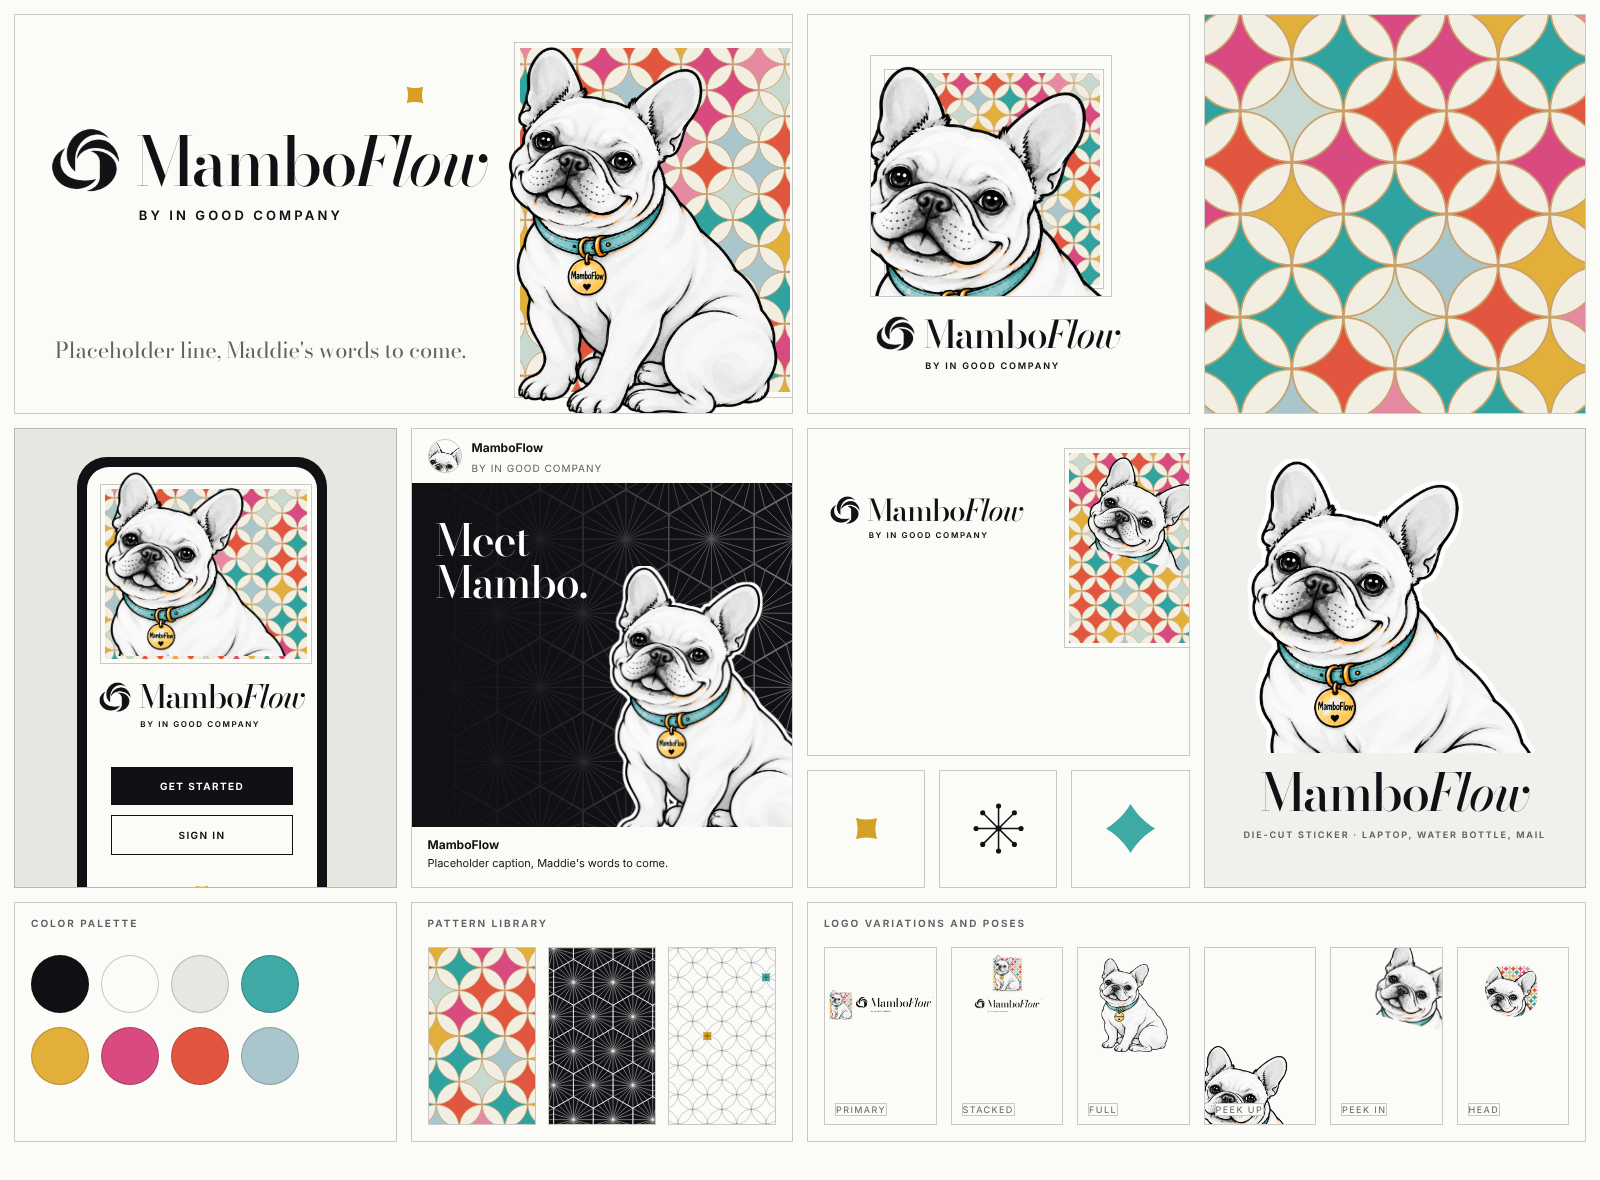
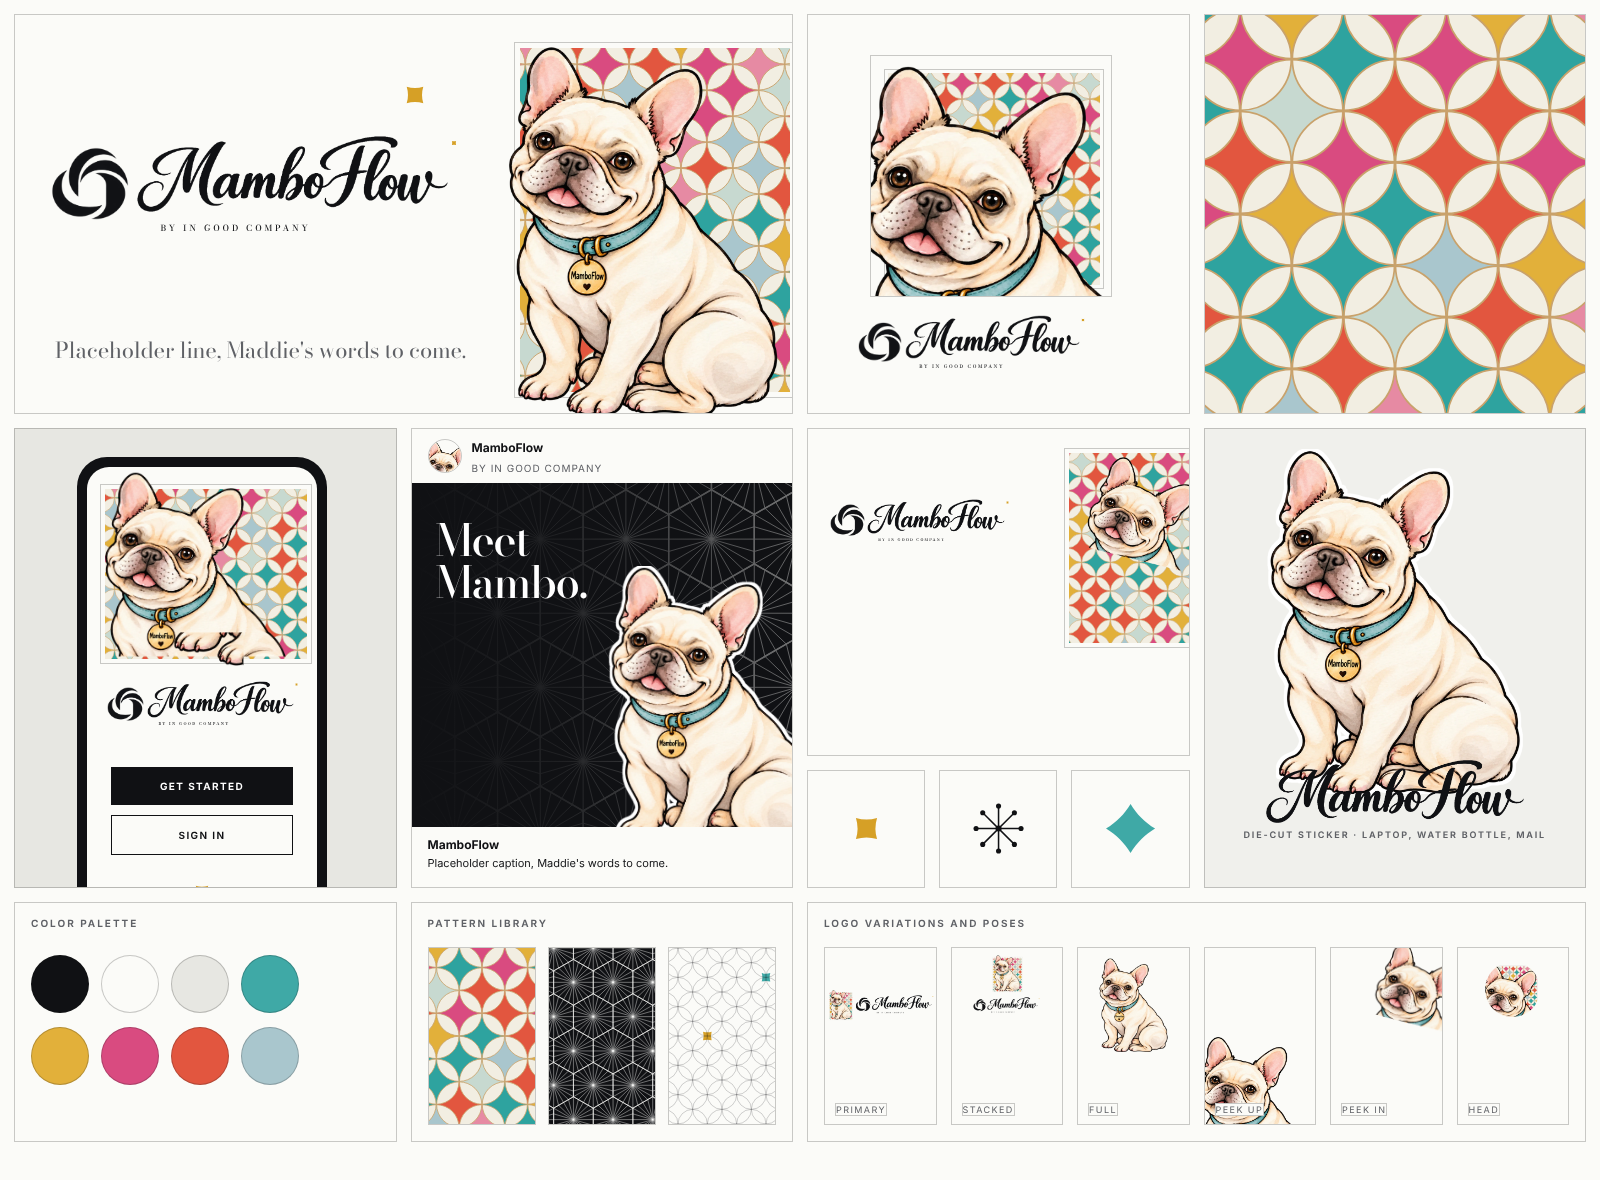
Refresh the brand sheet with the script lockup and cream Mambo
Claude-Session: https://claude.ai/code/session_01PSNkhtJjPwNzdydLD5UDQg

diff --git a/branding/mamboflow/source/sheet.html b/branding/mamboflow/source/sheet.html
@@ -17,17 +17,17 @@ img.m{position:absolute;display:block}
 .endorse{position:absolute;display:flex;align-items:center;gap:12px}
 .endorse img{display:block;height:44px;width:auto}
 .endorse .by{position:static!important}
-/* the lockup component: mark = 1.25 x cap height, centred on the caps; endorsement under the wordmark */
-.lk{--F:44px;display:flex;align-items:flex-start;gap:calc(var(--F)*.24)}
-.lk>img{display:block;height:calc(var(--F)*.94);width:auto;margin-top:calc(var(--F)*.02)}
-.lk .wm{font-size:var(--F);line-height:1;white-space:nowrap}
-.lk .by{margin:calc(var(--F)*.18) 0 0 calc(var(--F)*.04)}
+/* the lockup component: mark + script wordmark artwork + endorsement, from --W */
+.lk{--W:400px;position:relative;width:calc(var(--W)*1.32);height:calc(var(--W)*.31)}
+.lk .mk{position:absolute;left:0;top:calc(var(--W)*.038);height:calc(var(--W)*.233);width:auto}
+.lk .wmi{position:absolute;left:calc(var(--W)*.27);top:0;width:var(--W)}
+.lk .by{position:absolute!important;left:calc(var(--W)*.35);top:calc(var(--W)*.275);margin:0;font-family:"Bodoni Moda";font-weight:500;font-size:calc(var(--W)*.027);letter-spacing:.34em;text-transform:uppercase;white-space:nowrap;color:inherit}
+.lk .sp{position:absolute;left:calc(var(--W)*1.27);top:calc(var(--W)*.01);width:calc(var(--W)*.033)}
 
 .spark{position:absolute;width:40px;height:40px}
 /* hero */
 #hero{grid-column:1/3}
-#hero .lk{position:absolute;left:36px;top:112px}
-#hero .by{font-size:13px}
+#hero .lk{position:absolute;left:36px;top:120px}
 #hero .tag{position:absolute;left:40px;top:318px;width:420px;font-family:"Bodoni Moda";font-size:22px;letter-spacing:-.01em;color:var(--muted)}
 #hero .panel{left:500px;top:28px;width:270px;height:344px}
 #hero img.m{left:488px;top:30px;width:280px}
@@ -36,8 +36,7 @@ img.m{position:absolute;display:block}
 #icon .box{position:absolute;left:62px;top:40px;width:240px;height:240px;border:1px solid var(--line);overflow:hidden;background:var(--paper)}
 #icon .box .panel{left:14px;top:14px;width:212px;height:212px;border-width:3px}
 #icon .box img.m{width:330px;left:-20px;top:8px}
-#icon .lk{position:absolute;left:0;right:0;top:300px;justify-content:center}
-#icon .by{font-size:9px;letter-spacing:.2em}
+#icon .lk{position:absolute;left:50px;top:300px}
 /* pattern cell */
 #pat img{position:absolute;inset:0;width:100%;height:100%;object-fit:cover}
 /* phone */
@@ -46,8 +45,7 @@ img.m{position:absolute;display:block}
 #phone .scr{position:relative;width:100%;height:100%;border-radius:22px;background:var(--paper);overflow:hidden}
 #phone .scr .panel{left:14px;top:18px;width:202px;height:170px;border-width:4px}
 #phone .scr img.m{left:14px;top:4px;width:200px}
-#phone .scr .lk{position:absolute;left:0;right:0;top:214px;justify-content:center}
-#phone .scr .by{font-size:8px;letter-spacing:.2em}
+#phone .scr .lk{position:absolute;left:20px;top:214px}
 #phone .btn{position:absolute;left:24px;right:24px;height:38px;display:flex;align-items:center;justify-content:center;font-size:10px;letter-spacing:.14em;text-transform:uppercase;font-weight:650}
 #phone .b1{top:300px;background:var(--ink);color:#fff}
 #phone .b2{top:348px;border:1px solid var(--ink)}
@@ -68,8 +66,7 @@ img.m{position:absolute;display:block}
 /* card + glyphs column */
 #card{display:grid;grid-template-rows:1fr auto;gap:14px;background:transparent;border:0}
 #card .bc{position:relative;background:var(--paper);border:1px solid var(--line);overflow:hidden}
-#card .bc .lk{position:absolute;left:22px;top:66px}
-#card .bc .by{font-size:8px;letter-spacing:.2em}
+#card .bc .lk{position:absolute;left:22px;top:70px}
 #card .bc .panel{right:-24px;top:20px;width:140px;height:190px;border-width:4px}
 #card .bc img.m{right:-20px;top:22px;width:128px}
 #card .gl{display:flex;gap:14px}
@@ -78,7 +75,7 @@ img.m{position:absolute;display:block}
 /* sticker */
 #stick{background:var(--soft)}
 #stick img.m{left:40px;top:30px;width:300px}
-#stick .wm{position:absolute;left:0;right:0;top:340px;text-align:center;font-size:52px;color:var(--ink)}
+
 #stick .tag{position:absolute;left:0;right:0;top:400px;text-align:center;font-size:9px;letter-spacing:.2em;text-transform:uppercase;font-weight:650;color:var(--muted)}
 /* bottom row */
 .lab{position:absolute;left:16px;top:14px}
@@ -100,33 +97,33 @@ img.m{position:absolute;display:block}
 <div id="sheet">
  <div class="cell" id="hero">
   <img class="spark" src="../patterns/spark-mustard.svg">
-  <div class="lk" style="--F:68px"><img src="../igc/igc-mark-black.png" alt=""><div><h3 class="wm">Mambo<em>Flow</em></h3><p class="by">By In Good Company</p></div></div>
+  <div class="lk" style="--W:313px"><img class="mk" src="../igc/igc-mark-black.png" alt=""><img class="wmi" src="../wordmark/mamboflow-script-black.png" alt="MamboFlow"><p class="by">By In Good Company</p><img class="sp" src="../patterns/spark-mustard.svg" alt=""></div>
   <div class="tag">Placeholder line, Maddie's words to come.</div>
-  <div class="panel"><img src="../patterns/argyle-atomic-fine.svg"></div><img class="m" src="../mascot/mambo-pop-teal.png">
+  <div class="panel"><img src="../patterns/argyle-atomic-fine.svg"></div><img class="m" src="../mascot/mambo-cream.png">
  </div>
- <div class="cell" id="icon"><div class="box"><div class="panel"><img src="../patterns/argyle-atomic-fine.svg"></div><img class="m" src="../mascot/mambo-pop-teal.png"></div><div class="lk" style="--F:38px"><img src="../igc/igc-mark-black.png" alt=""><div><h3 class="wm">Mambo<em>Flow</em></h3><p class="by">By In Good Company</p></div></div></div>
+ <div class="cell" id="icon"><div class="box"><div class="panel"><img src="../patterns/argyle-atomic-fine.svg"></div><img class="m" src="../mascot/mambo-cream.png"></div><div class="lk" style="--W:175px"><img class="mk" src="../igc/igc-mark-black.png" alt=""><img class="wmi" src="../wordmark/mamboflow-script-black.png" alt="MamboFlow"><p class="by">By In Good Company</p><img class="sp" src="../patterns/spark-mustard.svg" alt=""></div></div>
  <div class="cell" id="pat"><img src="../patterns/argyle-atomic-600.svg"></div>
 
- <div class="cell" id="phone"><div class="dev"><div class="scr"><div class="panel"><img src="../patterns/argyle-atomic-fine.svg"></div><img class="m" src="../mascot/mambo-peek-up.png"><div class="lk" style="--F:32px"><img src="../igc/igc-mark-black.png" alt=""><div><h3 class="wm">Mambo<em>Flow</em></h3><p class="by">By In Good Company</p></div></div><div class="btn b1">Get started</div><div class="btn b2">Sign in</div><img class="spark" src="../patterns/spark-mustard.svg"></div></div></div>
+ <div class="cell" id="phone"><div class="dev"><div class="scr"><div class="panel"><img src="../patterns/argyle-atomic-fine.svg"></div><img class="m" src="../mascot/mambo-cream-peek-paws.png"><div class="lk" style="--W:147px"><img class="mk" src="../igc/igc-mark-black.png" alt=""><img class="wmi" src="../wordmark/mamboflow-script-black.png" alt="MamboFlow"><p class="by">By In Good Company</p><img class="sp" src="../patterns/spark-mustard.svg" alt=""></div><div class="btn b1">Get started</div><div class="btn b2">Sign in</div><img class="spark" src="../patterns/spark-mustard.svg"></div></div></div>
  <div class="cell" id="post">
-  <div class="bar"><div class="av"><img src="../mascot/mambo-head.png"></div><div><b>MamboFlow</b><br><span>By In Good Company</span></div></div>
-  <div class="img"><img class="pat" src="../patterns/tile-foyer.svg"><div class="fade"></div><div class="h">Meet<br>Mambo.</div><img class="m" src="../mascot/mambo-pop-teal-sticker.png"></div>
+  <div class="bar"><div class="av"><img src="../mascot/mambo-cream-head.png"></div><div><b>MamboFlow</b><br><span>By In Good Company</span></div></div>
+  <div class="img"><img class="pat" src="../patterns/tile-foyer.svg"><div class="fade"></div><div class="h">Meet<br>Mambo.</div><img class="m" src="../mascot/mambo-cream-sticker.png"></div>
   <div class="foot"><b>MamboFlow</b>Placeholder caption, Maddie's words to come.</div>
  </div>
  <div class="cell" id="card">
-  <div class="bc"><div class="lk" style="--F:30px"><img src="../igc/igc-mark-black.png" alt=""><div><h3 class="wm">Mambo<em>Flow</em></h3><p class="by">By In Good Company</p></div></div><div class="panel"><img src="../patterns/argyle-atomic-fine.svg"></div><img class="m" src="../mascot/mambo-peek-corner.png"></div>
+  <div class="bc"><div class="lk" style="--W:138px"><img class="mk" src="../igc/igc-mark-black.png" alt=""><img class="wmi" src="../wordmark/mamboflow-script-black.png" alt="MamboFlow"><p class="by">By In Good Company</p><img class="sp" src="../patterns/spark-mustard.svg" alt=""></div><div class="panel"><img src="../patterns/argyle-atomic-fine.svg"></div><img class="m" src="../mascot/mambo-cream-peek-corner.png"></div>
   <div class="gl"><div><img src="../patterns/spark-mustard.svg" style="width:44%"></div><div style="color:#101114"><svg><use href="#burst"/></svg></div><div style="color:#3fa9a6"><svg><use href="#petal"/></svg></div></div>
  </div>
- <div class="cell" id="stick"><img class="m" src="../mascot/mambo-peek-sticker.png"><h2 class="wm">Mambo<em>Flow</em></h2><div class="tag">Die-cut sticker · laptop, water bottle, mail</div></div>
+ <div class="cell" id="stick"><img class="m" src="../mascot/mambo-cream-sticker.png" style="left:60px;top:20px;width:260px"><img src="../wordmark/mamboflow-script-black.png" style="position:absolute;left:60px;top:330px;width:260px"><div class="tag">Die-cut sticker · laptop, water bottle, mail</div></div>
 
  <div class="cell" id="pal"><div class="eb lab">Color palette</div><div class="dots"><div style="background:#101114"></div><div style="background:#fbfbf8"></div><div style="background:#e7e7e2"></div><div style="background:#3fa9a6"></div><div style="background:#e2b03a"></div><div style="background:#d94b80"></div><div style="background:#e2563f"></div><div style="background:#a9c6cd"></div></div></div>
  <div class="cell" id="lib"><div class="eb lab">Pattern library</div><div class="row"><div><img src="../patterns/argyle-atomic-600.svg"></div><div><img src="../patterns/tile-foyer.svg"></div><div><img src="../patterns/tile-lattice.svg"></div></div></div>
  <div class="cell" id="var"><div class="eb lab">Logo variations and poses</div><div class="row">
   <div><img src="../lockups/lock-primary.png" style="left:4px;top:40px;width:97%"><div class="cap">Primary</div></div>
   <div><img src="../lockups/lock-stacked.png" style="left:14%;top:6px;width:72%"><div class="cap">Stacked</div></div>
-  <div><img src="../mascot/mambo-pop-teal.png" style="left:18%;top:10px;width:64%"><div class="cap">Full</div></div>
-  <div><img src="../mascot/mambo-peek-up.png" style="left:-8%;bottom:-40px;width:116%"><div class="cap">Peek up</div></div>
-  <div><img src="../mascot/mambo-peek-corner.png" style="right:-30px;top:-10px;width:92%"><div class="cap">Peek in</div></div>
+  <div><img src="../mascot/mambo-cream.png" style="left:18%;top:10px;width:64%"><div class="cap">Full</div></div>
+  <div><img src="../mascot/mambo-cream-peek-paws.png" style="left:-8%;bottom:-40px;width:116%"><div class="cap">Peek up</div></div>
+  <div><img src="../mascot/mambo-cream-peek-corner.png" style="right:-30px;top:-10px;width:92%"><div class="cap">Peek in</div></div>
   <div><img src="../social/avatar.png" style="left:25%;top:14px;width:50%;border-radius:50%"><div class="cap">Head</div></div>
  </div></div>
 </div>

diff --git a/branding/mamboflow/board/index.html b/branding/mamboflow/board/index.html
@@ -124,7 +124,7 @@ a{color:var(--ink)}
     <p>The whole system at a glance: hero lockup, app icon, the paper, a phone screen, a post, a card, three glyphs, a die-cut sticker, the palette, the pattern library, and Mambo in the poses cut from his drawing. The In Good Company mark sits beside the endorsement line on every piece.</p>
   </div>
   <div class="plate flush"><img src="img/brand-sheet.png" alt="One-page MamboFlow brand sheet" width="1600" height="1180"></div>
-  <div class="cap"><b>Brand sheet</b><span>Draft three · to be refreshed with the script lockup</span></div>
+  <div class="cap"><b>Brand sheet</b><span>Draft four · placeholder copy</span></div>
 </section>
 
 <section>
